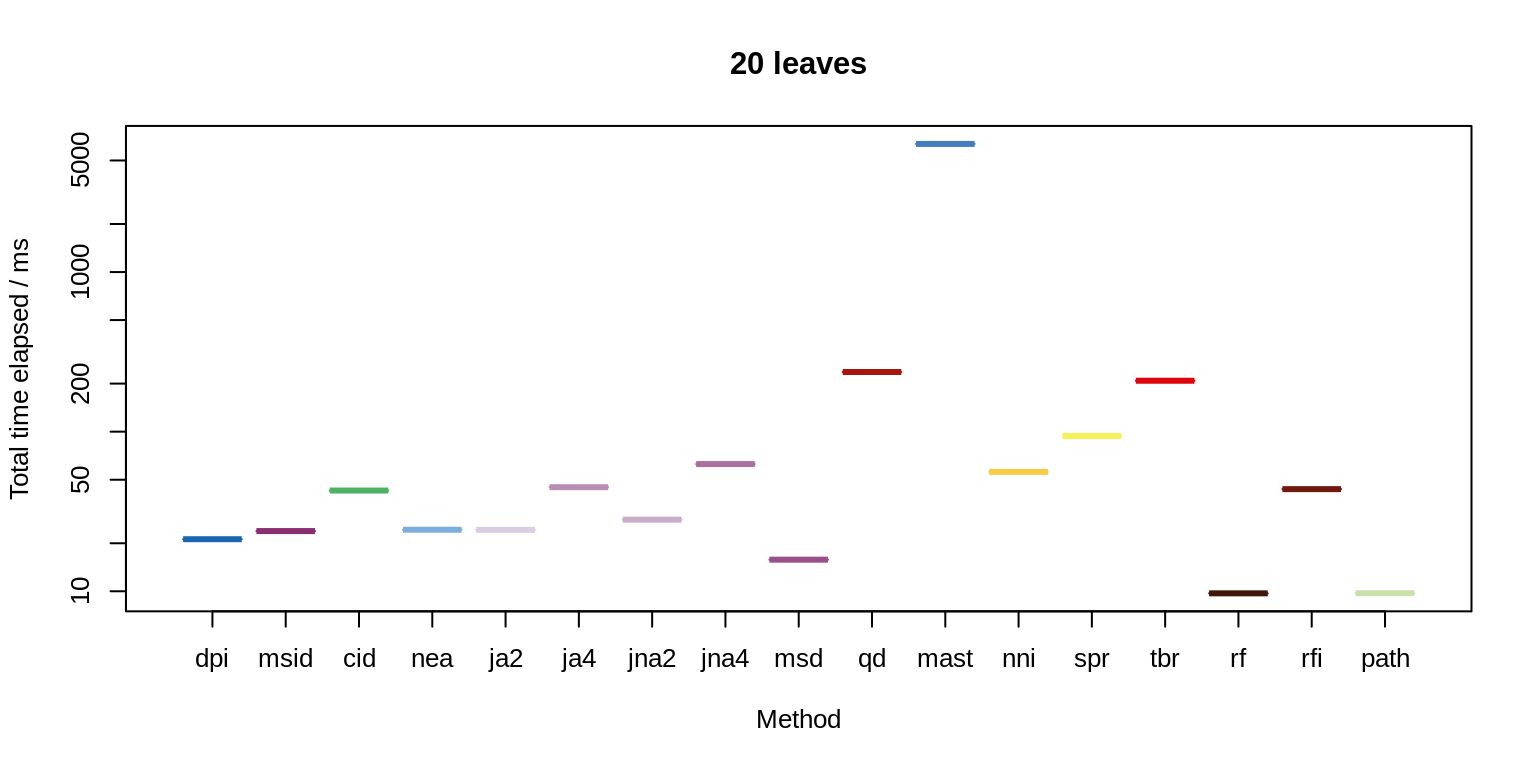
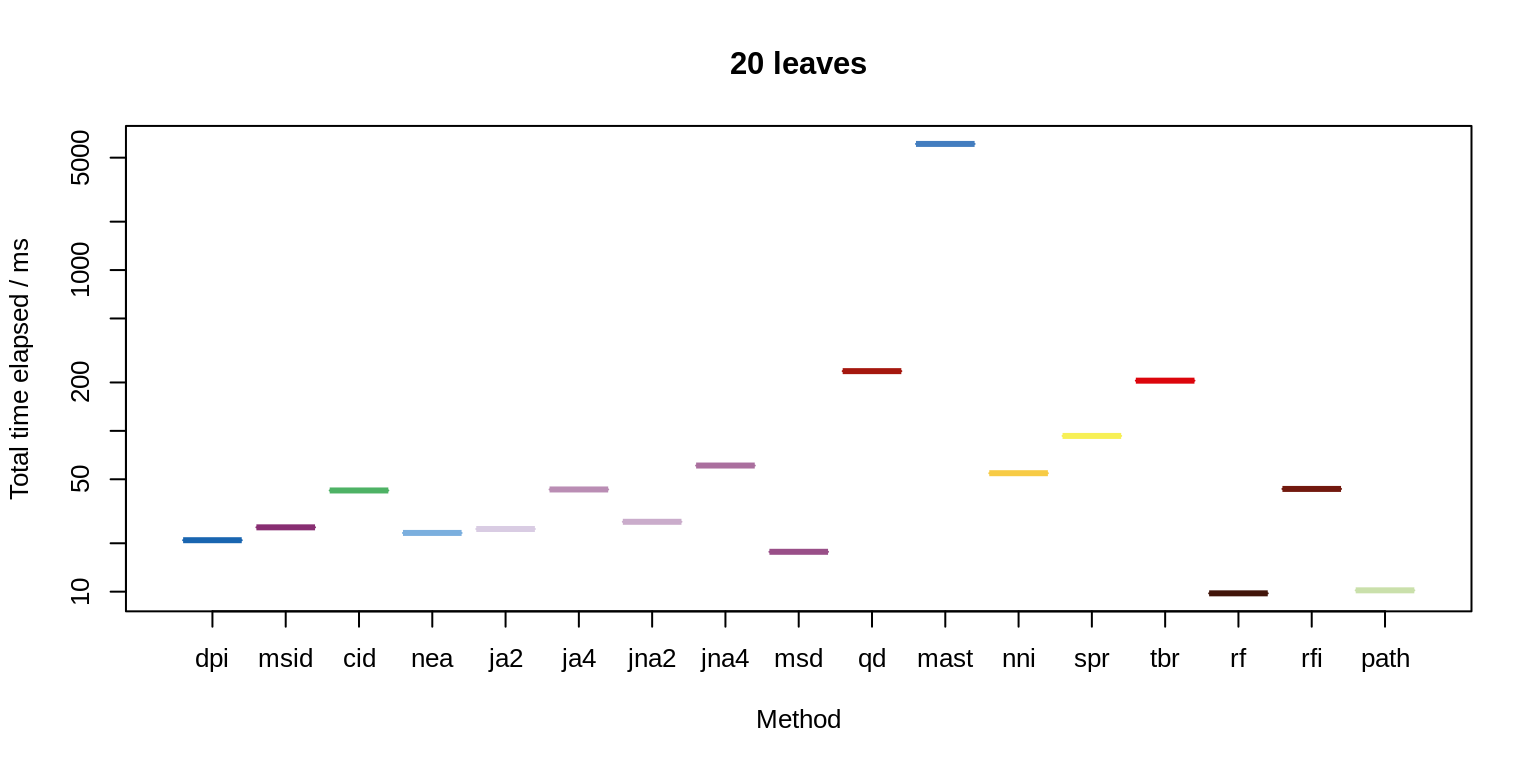
Built site for TreeDistData: 0.0.0.9008@f4af923

diff --git a/articles/10-timing.html b/articles/10-timing.html
@@ -150,28 +150,28 @@ The values reported in Smith <span class="citation">(2020)</span> were calculate
 <tbody>
 <tr class="odd">
 <td>Robinson-Foulds</td>
-<td align="right">9.8</td>
-<td align="right">12</td>
+<td align="right">9.9</td>
+<td align="right">13</td>
 </tr>
 <tr class="even">
 <td>Path</td>
-<td align="right">9.8</td>
+<td align="right">10.0</td>
 <td align="right">15</td>
 </tr>
 <tr class="odd">
 <td>Match. Split Dist.</td>
-<td align="right">16.0</td>
+<td align="right">18.0</td>
 <td align="right">46</td>
 </tr>
 <tr class="even">
 <td>Phylog. Info. Dist</td>
 <td align="right">21.0</td>
-<td align="right">84</td>
+<td align="right">83</td>
 </tr>
 <tr class="odd">
-<td>Match. Split Info Dist</td>
-<td align="right">24.0</td>
-<td align="right">150</td>
+<td>Nye et al.</td>
+<td align="right">23.0</td>
+<td align="right">130</td>
 </tr>
 <tr class="even">
 <td>JRF (k=2, arboreal)</td>
@@ -179,13 +179,13 @@ The values reported in Smith <span class="citation">(2020)</span> were calculate
 <td align="right">120</td>
 </tr>
 <tr class="odd">
-<td>Nye et al.</td>
+<td>Match. Split Info Dist</td>
 <td align="right">25.0</td>
-<td align="right">140</td>
+<td align="right">150</td>
 </tr>
 <tr class="even">
 <td>JRF (k=2, non-arb.)</td>
-<td align="right">28.0</td>
+<td align="right">27.0</td>
 <td align="right">170</td>
 </tr>
 <tr class="odd">
@@ -194,44 +194,44 @@ The values reported in Smith <span class="citation">(2020)</span> were calculate
 <td align="right">260</td>
 </tr>
 <tr class="even">
+<td>JRF (k=4, arboreal)</td>
+<td align="right">44.0</td>
+<td align="right">550</td>
+</tr>
+<tr class="odd">
 <td>Robinson-Foulds Info</td>
 <td align="right">44.0</td>
 <td align="right">130</td>
 </tr>
-<tr class="odd">
-<td>JRF (k=4, arboreal)</td>
-<td align="right">45.0</td>
-<td align="right">550</td>
-</tr>
 <tr class="even">
 <td>NNI (approx.)</td>
-<td align="right">57.0</td>
-<td align="right">81</td>
+<td align="right">55.0</td>
+<td align="right">80</td>
 </tr>
 <tr class="odd">
 <td>JRF (k=4, non-arb.)</td>
-<td align="right">63.0</td>
+<td align="right">61.0</td>
 <td align="right">880</td>
 </tr>
 <tr class="even">
 <td>SPR (approx.)</td>
-<td align="right">95.0</td>
-<td align="right">790</td>
+<td align="right">94.0</td>
+<td align="right">780</td>
 </tr>
 <tr class="odd">
 <td>TBR (approx.)</td>
 <td align="right">210.0</td>
-<td align="right">360</td>
+<td align="right">350</td>
 </tr>
 <tr class="even">
 <td>Quartet</td>
 <td align="right">240.0</td>
-<td align="right">440</td>
+<td align="right">430</td>
 </tr>
 <tr class="odd">
 <td>MAST size</td>
-<td align="right">6400.0</td>
-<td align="right">26000</td>
+<td align="right">6100.0</td>
+<td align="right">25000</td>
 </tr>
 </tbody>
 </table>

diff --git a/articles/05-tree-shape.html b/articles/05-tree-shape.html
@@ -128,6 +128,9 @@
 
     
     
+<p>There are four unrooted tree shapes on eight leaves:</p>
+<p><img src="05-tree-shape_files/figure-html/tree-shapes-1.png" width="576" style="display: block; margin: auto;"></p>
+<p>To evaluate the extent to which trees are ranked as less (or more) different simply because they exhibit the same shape, I evaluated the extent to which tree distance could be predicted based only on knowledge of the topology of the two input trees.</p>
 <p><img src="05-tree-shape_files/figure-html/analyse-1.png" width="700"></p>
 <table class="table">
 <thead><tr class="header">

diff --git a/articles/06-lin-cluster-recovery.html b/articles/06-lin-cluster-recovery.html
@@ -272,7 +272,6 @@
 </tr>
 </tbody>
 </table>
-<!--PlotMe(4, oneCol, 1.23, PlotFunc)-->
 </div>
   </div>
 
